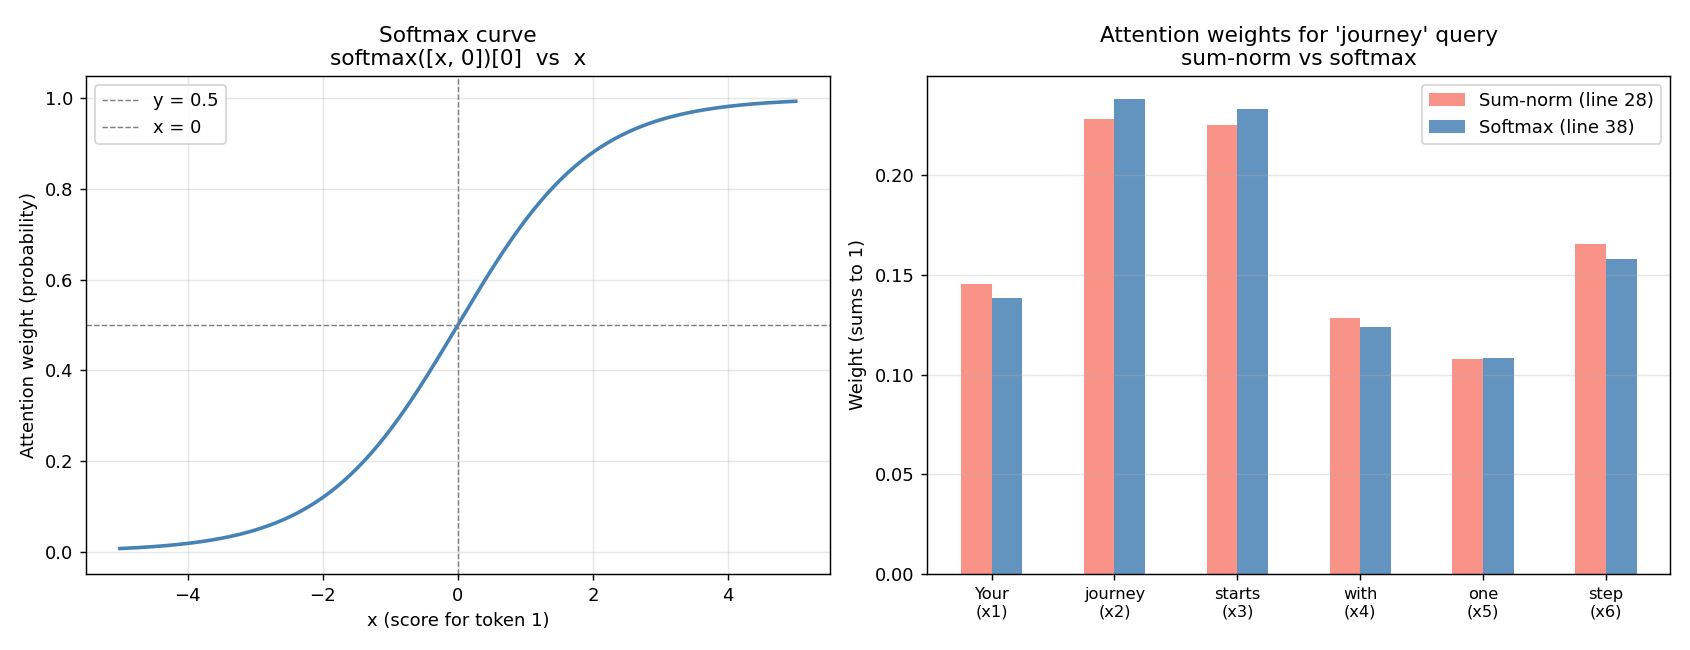
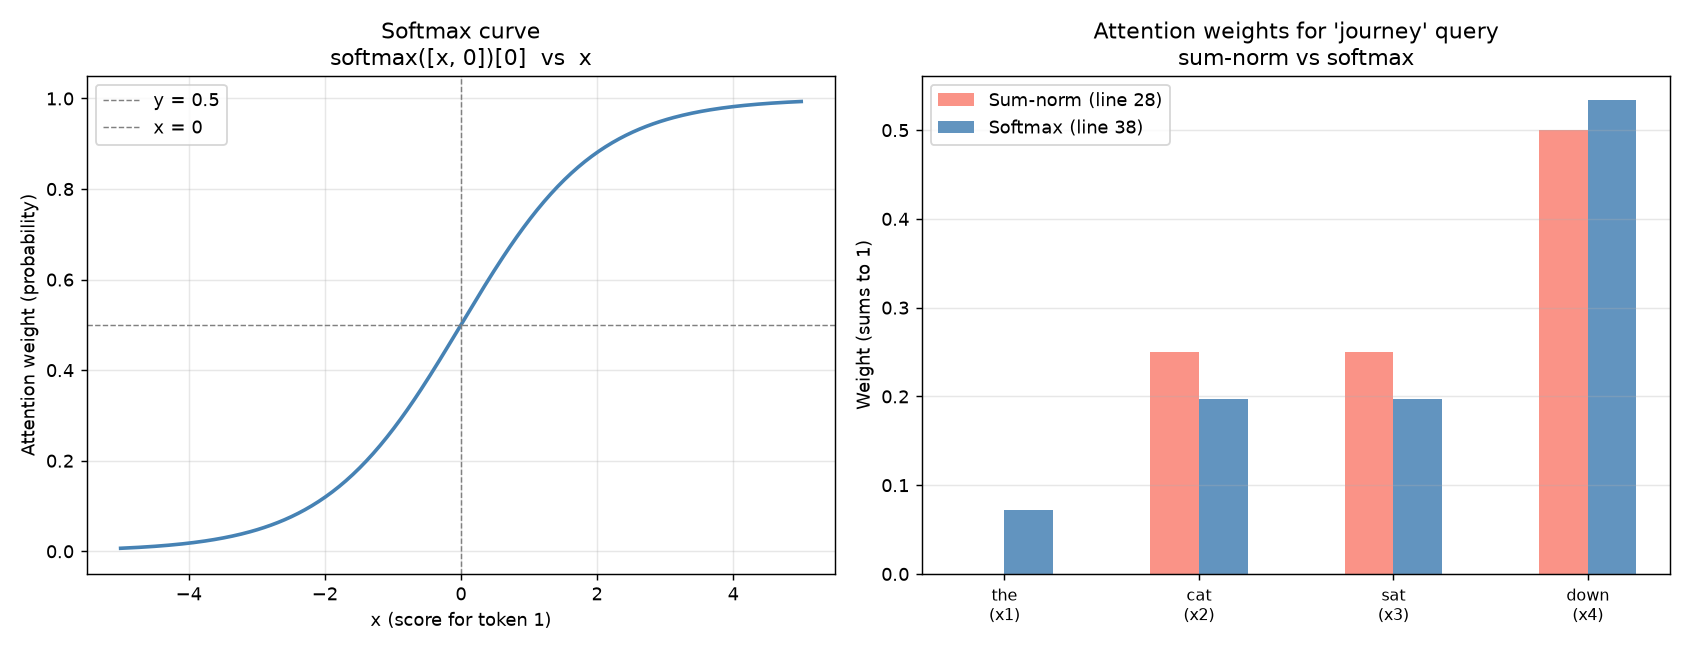
updates on icecube

diff --git a/ch03_coding-attention-mechanisms/ex__3_4.py b/ch03_coding-attention-mechanisms/ex__3_4.py
@@ -1,0 +1,72 @@
+#%% Initialize inputs
+import torch
+inputs = torch.tensor(
+  [[0.43, 0.15, 0.89], # Your     (x^1)
+   [0.55, 0.87, 0.66], # journey  (x^2)
+   [0.57, 0.85, 0.64], # starts   (x^3)
+   [0.22, 0.58, 0.33], # with     (x^4)
+   [0.77, 0.25, 0.10], # one      (x^5)
+   [0.05, 0.80, 0.55]] # step     (x^6)
+)
+print("Input tensor: ", inputs)
+# %%
+x_2=inputs[1]
+din=inputs.shape[1]
+print("Input feature depth (din):", din)
+dout=2
+print("Output feature depth (dout):", dout)
+
+#%% Initialize weights
+torch.manual_seed(123)
+# generate random weights for query, key, and value matrices
+# n rows matches the input dimension for matrix multiplication, and m columns matches the output dimension
+W_query=torch.nn.Parameter(torch.rand(din,dout),requires_grad=False)
+W_key=torch.nn.Parameter(torch.rand(din,dout),requires_grad=False)
+W_value=torch.nn.Parameter(torch.rand(din,dout),requires_grad=False)
+#%% Compute query, key, and value vectors for x_2
+# matrix multiplication maps the input vector to an output vector with the specified output dimension for each query, key, and value vectors
+query_2=x_2 @ W_query
+key_2=x_2 @ W_key
+value_2=x_2 @ W_value
+print("Query vector for x_2:", query_2)
+print("Key vector for x_2:", key_2)
+print("Value vector for x_2:", value_2)
+# %% Expand for all inputs
+# note: @ is shorthand for torch.matmul() and performs matrix multiplication
+queries=inputs @ W_query
+keys=inputs @ W_key
+values=inputs @ W_value 
+print("Query vectors for all inputs:\n", queries)
+print("Key vectors for all inputs:\n", keys)
+print("Value vectors for all inputs:\n", values)
+
+# %% Review intermediate shapes
+print("inputs.shape:", inputs.shape)
+print("queries.shape:", queries.shape)
+print("keys.shape:", keys.shape)
+print("values.shape:", values.shape)
+
+# %% compute attention score between x_2 and itself
+attn_score_22=query_2.dot(key_2)
+print("Attention score between x_2 and itself:", attn_score_22)
+
+
+# %% compute attention scores between all queries and keys
+attn_scores=queries @ keys.T
+print("Attention scores between all queries and keys:\n", attn_scores)
+
+# %% Compute normalized attention scores
+dk=keys.shape[-1]
+scaled_attn_scores=attn_scores/torch.sqrt(torch.tensor(dk,dtype=torch.float32))
+print("Scaled attention scores:\n", scaled_attn_scores)
+
+# %% Compute attention weights using softmax
+attn_weights=torch.nn.functional.softmax(scaled_attn_scores,dim=-1)
+print("Attention weights:\n", attn_weights)
+
+ 
+# %% Compute the context vector for the whole sequence
+context_vectors=attn_weights @ values
+print("Context vectors:\n", context_vectors)
+
+# %%

diff --git a/ch03_coding-attention-mechanisms/plot_softmax.py b/ch03_coding-attention-mechanisms/plot_softmax.py
@@ -21,9 +21,13 @@ ax1.legend()
 ax1.grid(True, alpha=0.3)
 
 # --- Panel 2: actual attention scores vs softmax weights from the exercise ---
-token_labels = ["Your\n(x1)", "journey\n(x2)", "starts\n(x3)", "with\n(x4)", "one\n(x5)", "step\n(x6)"]
-attn_scores = torch.tensor([0.9544, 1.4950, 1.4754, 0.8434, 0.7070, 1.0865])
+# token_labels = ["Your\n(x1)", "journey\n(x2)", "starts\n(x3)", "with\n(x4)", "one\n(x5)", "step\n(x6)"]
+# attn_scores = torch.tensor([0.9544, 1.4950, 1.4754, 0.8434, 0.7070, 1.0865])
+token_labels = ["the\n(x1)", "cat\n(x2)", "sat\n(x3)", "down\n(x4)"]
+attn_scores = torch.tensor([0, 1, 1, 2], dtype=torch.float32)  # attention scores for each token
+
 softmax_weights = torch.softmax(attn_scores, dim=0).numpy()
+print("Softmax weights:", softmax_weights)
 naive_weights = (attn_scores / attn_scores.sum()).numpy()
 raw_scores = attn_scores.numpy()
 

diff --git a/ch03_coding-attention-mechanisms/context_vec.py b/ch03_coding-attention-mechanisms/context_vec.py
@@ -1,0 +1,19 @@
+#%% dependencies
+import torch
+import numpy as np
+
+#%% inputs
+
+tokens=torch.tensor([[1,0,0],[0,1,0],[1,1,0],[0,1,1]],dtype=torch.float32)  # shape: (4,3)  # 4 tokens, 3 features each
+
+#%% autocorrelation (Gram matrix): entry (i,j) is dot(tokens[i], tokens[j])
+autocorr = tokens @ tokens.T  # shape: (4,4)
+softmax_weights=torch.softmax(autocorr, dim=-1)  # shape: (4,4)  # attention weights for each token pair
+
+#%% context vectors: weighted sum of tokens, weighted by (softmax'd) autocorrelation
+context_vec = softmax_weights @ tokens  # shape: (4,3)
+
+
+
+
+# %%
